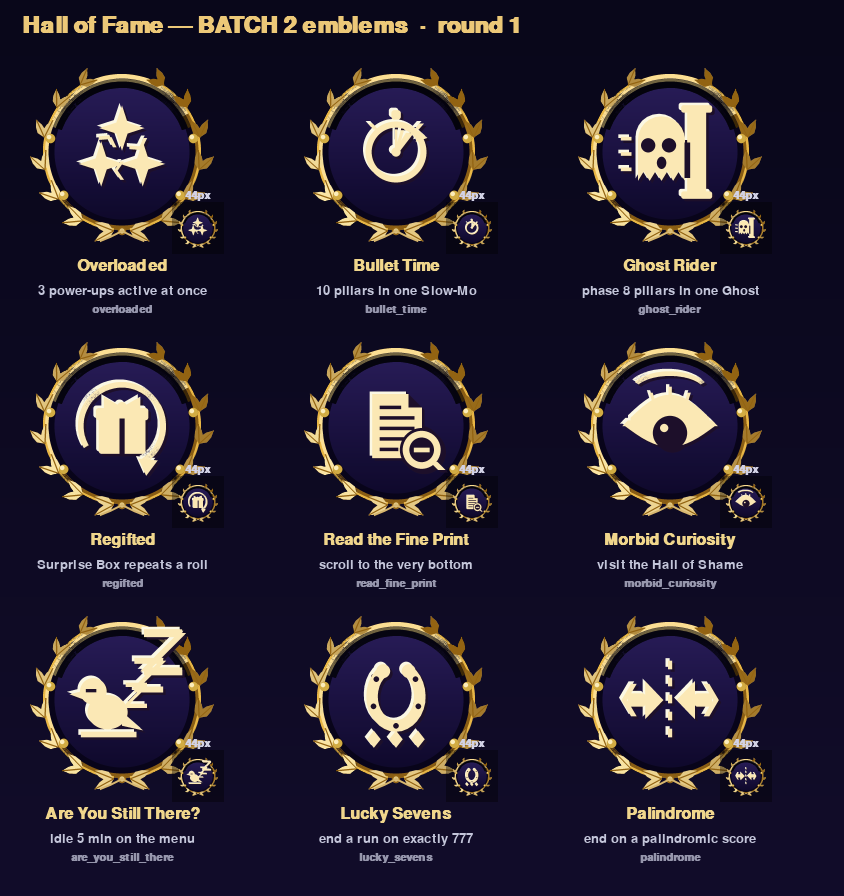
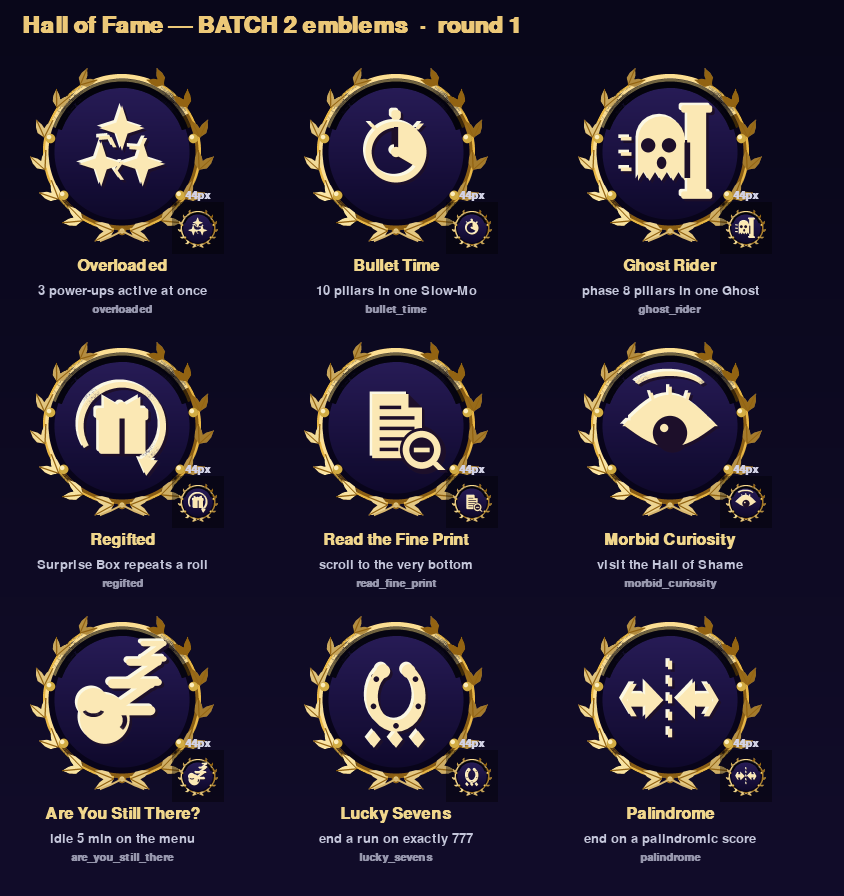
Batch-2 emblems: final revision — bullet_time wedge + sleeper Zzz
Address the art-director's two notes:
- bullet_time: kill the faint ghost-echo hands + sweep arc; replace with
  one bold filled pie-wedge (12→4 o'clock) so the frozen sweep survives
  44px and separates from the plain clock emblem.
- are_you_still_there: simplify to a round head-tucked sleeper (drop the
  perch) under a clean rising stack of three wider-than-tall Z's, so the
  sleep read no longer collapses into a single lightning bolt.

Claude-Session: https://claude.ai/code/session_01ARwhW1U7KdSUdqvnUSuQi9

Changed region(s): [[0.0924, 0.6875, 0.2156, 0.8438], [0.4621, 0.125, 0.5237, 0.1875], [0.2156, 0.8438, 0.2464, 0.875]]

diff --git a/tools/emblems_new/batch2.py b/tools/emblems_new/batch2.py
@@ -70,11 +70,12 @@ def _glyph_overloaded(surf, cx, cy, r, col):
         _sparkle(surf, sx, sy, sr, col, reach=0.98, waist=0.24)
 
 
-# ── 2. bullet_time — stopwatch with slowed, trailing motion-arc hands ────────
+# ── 2. bullet_time — stopwatch with a frozen sweep-wedge ─────────────────────
 def _glyph_bullet_time(surf, cx, cy, r, col):
-    # A stopwatch (Slow-Mo's in-game clock) whose single hand drags a fan of
-    # ghost-echo hands + a curved motion arc — the "time crawling" read that a
-    # plain two-hand clock lacks.
+    # A stopwatch (Slow-Mo's in-game clock) with ONE bold FILLED pie-wedge swept
+    # from 12 o'clock to ~4 o'clock — the second-hand caught mid-sweep, "time
+    # freezing". The solid wedge survives 44px where thin echo-hands vanish, and
+    # it's what separates this from the plain two-hand clock emblem.
     rr = int(r * 0.64)
     ring_w = max(3, int(r * 0.13))
     # crown nub + two shoulder buttons so it reads stopwatch, not wall clock.
@@ -88,33 +89,26 @@ def _glyph_bullet_time(surf, cx, cy, r, col):
                          (int(bx + math.cos(a) * r * 0.16),
                           int(by + math.sin(a) * r * 0.16)), max(2, int(r * 0.10)))
     pygame.draw.circle(surf, col, (cx, cy), rr, ring_w)
-    # Ghost-echo hands fanning back (counter-clockwise) from the live hand, each
-    # thinner — the motion-blur trail of a hand barely creeping forward.
-    hub = (cx, cy)
-    for k, deg in enumerate((-58, -74, -90)):
-        a = math.radians(deg)
-        hw = max(1, int(r * (0.09 - k * 0.02)))
-        pygame.draw.line(surf, col, hub,
-                         (int(cx + math.cos(a) * rr * 0.74),
-                          int(cy + math.sin(a) * rr * 0.74)), hw)
-    # Live hand — bold, pointing up-right (1 o'clock).
-    a = math.radians(-52)
-    pygame.draw.line(surf, col, hub,
-                     (int(cx + math.cos(a) * rr * 0.78),
-                      int(cy + math.sin(a) * rr * 0.78)), max(3, int(r * 0.13)))
-    pygame.draw.circle(surf, col, hub, max(2, int(r * 0.10)))
-    # A stubby motion arc with an arrowhead ahead of the live hand — the slow
-    # sweep direction.
-    arc_r = int(rr * 0.92)
-    pygame.draw.arc(surf, col, (cx - arc_r, cy - arc_r, arc_r * 2, arc_r * 2),
-                    math.radians(28), math.radians(70), max(2, int(r * 0.09)))
-    ah = math.radians(28)
-    hx, hy = cx + math.cos(ah) * arc_r, cy - math.sin(ah) * arc_r
-    pygame.draw.polygon(surf, col, [
-        (int(hx + r * 0.14), int(hy - r * 0.02)),
-        (int(hx - r * 0.04), int(hy - r * 0.18)),
-        (int(hx - r * 0.10), int(hy + r * 0.06)),
-    ])
+    # The frozen sweep — a solid pie slice from 12 o'clock (top) clockwise to
+    # ~4 o'clock, filled bold so the "part of the dial already swept" reads at
+    # row size.
+    wr = int(rr * 0.82)
+    a0, a1 = math.radians(90), math.radians(-30)     # 12 o'clock → 4 o'clock
+    wedge = [(cx, cy)]
+    N = 16
+    for i in range(N + 1):
+        a = a0 + (a1 - a0) * i / N
+        wedge.append((cx + math.cos(a) * wr, cy - math.sin(a) * wr))
+    pygame.draw.polygon(surf, col, [(int(x), int(y)) for x, y in wedge])
+    # The sweep's START edge (straight up) cut in as a recessed groove so the
+    # wedge reads as a slice, not a filled half-disc.
+    pygame.draw.line(surf, ai._GLYPH_SH, (cx, cy),
+                     (cx, int(cy - wr)), max(2, int(r * 0.09)))
+    # The live second-hand riding the wedge's leading edge, bold for definition.
+    pygame.draw.line(surf, col, (cx, cy),
+                     (int(cx + math.cos(a1) * wr), int(cy - math.sin(a1) * wr)),
+                     max(3, int(r * 0.13)))
+    pygame.draw.circle(surf, col, (cx, cy), max(2, int(r * 0.11)))
 
 
 # ── 3. ghost_rider — sheet-ghost phasing through a pillar edge ───────────────
@@ -288,48 +282,47 @@ def _glyph_morbid_curiosity(surf, cx, cy, r, col):
                          max(2, int(r * 0.07)))
 
 
-# ── 7. are_you_still_there — perched bird snoozing under rising Zzz ──────────
+# ── 7. are_you_still_there — head-tucked sleeper under a Zzz stack ───────────
 def _glyph_are_you_still_there(surf, cx, cy, r, col):
-    # A bird asleep on a perch (closed eye) with three ascending Z's drifting up —
-    # the idle-menu snooze. The Z-ladder is the sleep read; the perched macaw is
-    # the who.
-    perch_y = cy + int(r * 0.72)
-    pygame.draw.line(surf, col, (int(cx - r * 0.86), perch_y),
-                     (int(cx + r * 0.30), perch_y), max(3, int(r * 0.12)))
-    # Body — a plump ellipse sitting on the perch, head up-left, stubby tail
-    # down-right.
-    bcx, bcy = cx - int(r * 0.30), cy + int(r * 0.24)
-    pygame.draw.ellipse(surf, col, (int(bcx - r * 0.42), int(bcy - r * 0.34),
-                                    int(r * 0.84), int(r * 0.72)))
-    hx, hy = bcx - int(r * 0.30), bcy - int(r * 0.42)
-    pygame.draw.circle(surf, col, (hx, hy), int(r * 0.28))
-    # beak (small down-left triangle) + a closed-eye line (asleep).
-    pygame.draw.polygon(surf, col, [
-        (hx - int(r * 0.26), hy),
-        (hx - int(r * 0.50), hy + int(r * 0.06)),
-        (hx - int(r * 0.24), hy + int(r * 0.16)),
-    ])
-    pygame.draw.line(surf, ai._GLYPH_SH, (hx - int(r * 0.16), hy - int(r * 0.02)),
-                     (hx + int(r * 0.06), hy - int(r * 0.02)), max(2, int(r * 0.07)))
-    # tail down-right.
-    pygame.draw.polygon(surf, col, [
-        (int(bcx + r * 0.30), int(bcy + r * 0.02)),
-        (int(bcx + r * 0.74), int(bcy + r * 0.40)),
-        (int(bcx + r * 0.30), int(bcy + r * 0.30)),
-    ])
-    # Three ascending Z's drifting up-right — each bigger, drawn as a bold
-    # three-stroke zigzag.
-    zs = [(cx + r * 0.30, cy - r * 0.10, r * 0.22),
-          (cx + r * 0.56, cy - r * 0.52, r * 0.30),
-          (cx + r * 0.86, cy - r * 1.00, r * 0.40)]
-    for zx, zy, zsz in zs:
-        zw = max(2, int(zsz * 0.42))
-        pygame.draw.lines(surf, col, False, [
-            (int(zx - zsz), int(zy - zsz)),
-            (int(zx + zsz), int(zy - zsz)),
-            (int(zx - zsz), int(zy + zsz)),
-            (int(zx + zsz), int(zy + zsz)),
-        ], zw)
+    # A bird fast asleep — a round, head-tucked silhouette (no perch, no beak
+    # jutting out) — under a clean stack of THREE separate Z's shrinking as they
+    # rise. Each Z is a distinct three-stroke letter with rounded joints so the
+    # trio reads as "Zzz" (sleep), never one jagged lightning bolt.
+    # Round body, low-left, with a folded-wing groove.
+    bcx, bcy = cx - int(r * 0.36), cy + int(r * 0.40)
+    br = int(r * 0.52)
+    pygame.draw.circle(surf, col, (bcx, bcy), br)
+    # Head tucked into the shoulder — a smaller bump merged onto the upper-left,
+    # so the silhouette reads as a sleeping bird with its head nestled down.
+    hcx, hcy = bcx - int(br * 0.46), bcy - int(br * 0.60)
+    hr = int(r * 0.34)
+    pygame.draw.circle(surf, col, (hcx, hcy), hr)
+    # Closed, curved sleeping eye on the tucked head (recessed).
+    pygame.draw.arc(surf, ai._GLYPH_SH,
+                    (hcx - int(hr * 0.7), hcy - int(hr * 0.2),
+                     int(hr * 1.4), int(hr * 1.0)),
+                    math.radians(200), math.radians(340), max(2, int(r * 0.07)))
+    # Folded wing — one shallow groove arcing across the body.
+    pygame.draw.arc(surf, ai._GLYPH_SH,
+                    (bcx - int(br * 0.5), bcy - int(br * 0.55),
+                     int(br * 1.4), int(br * 1.2)),
+                    math.radians(-40), math.radians(70), max(2, int(r * 0.09)))
+    # Three separate Z's rising up-right, large → small. Each is drawn WIDER than
+    # tall so its horizontal top/bottom bars dominate (reads as a letter Z), and
+    # they're spaced with clear vertical gaps so the trio never fuses into one
+    # diagonal lightning streak. The big anchor Z alone already says "sleep".
+    zs = [(cx + r * 0.20, cy - r * 0.06, r * 0.40, r * 0.28),
+          (cx + r * 0.46, cy - r * 0.58, r * 0.30, r * 0.21),
+          (cx + r * 0.66, cy - r * 1.02, r * 0.22, r * 0.16)]
+    for zx, zy, zhw, zvh in zs:
+        zw = max(3, int(zvh * 0.72))
+        tl = (int(zx - zhw), int(zy - zvh))
+        tr = (int(zx + zhw), int(zy - zvh))
+        bl = (int(zx - zhw), int(zy + zvh))
+        br = (int(zx + zhw), int(zy + zvh))
+        pygame.draw.lines(surf, col, False, [tl, tr, bl, br], zw)
+        for pt in (tl, tr, bl, br):     # round the joints so it reads soft/sleepy
+            pygame.draw.circle(surf, col, pt, max(1, zw // 2))
 
 
 # ── 8. lucky_sevens — horseshoe over a triple of matched luck-pips ──────────
